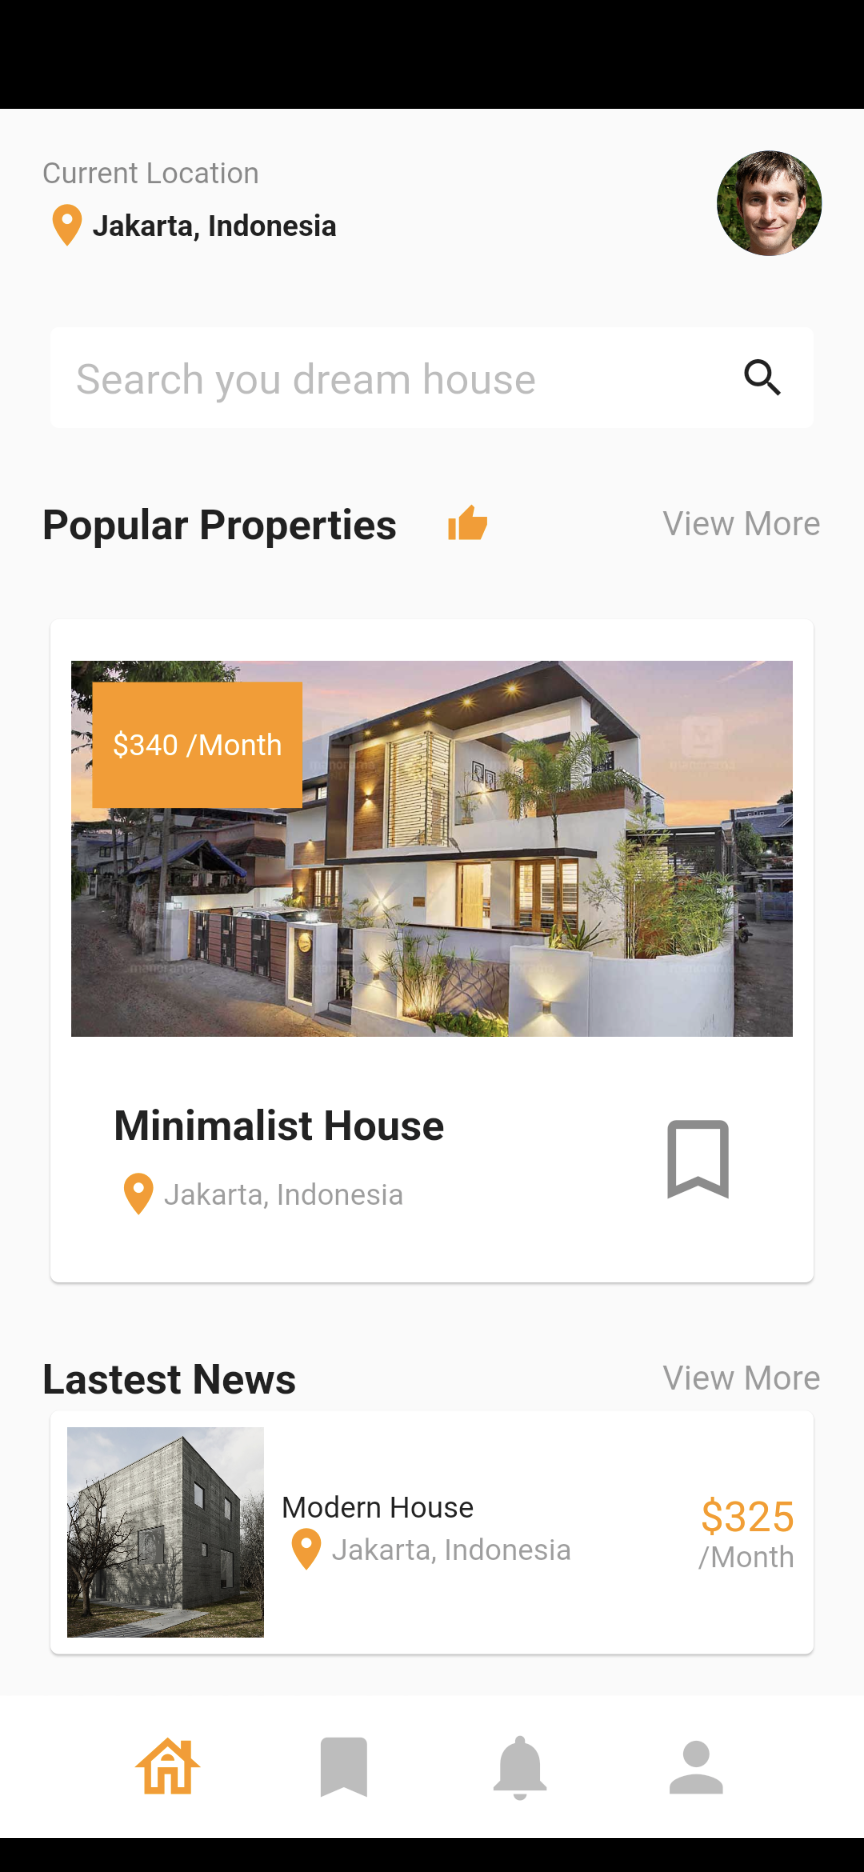
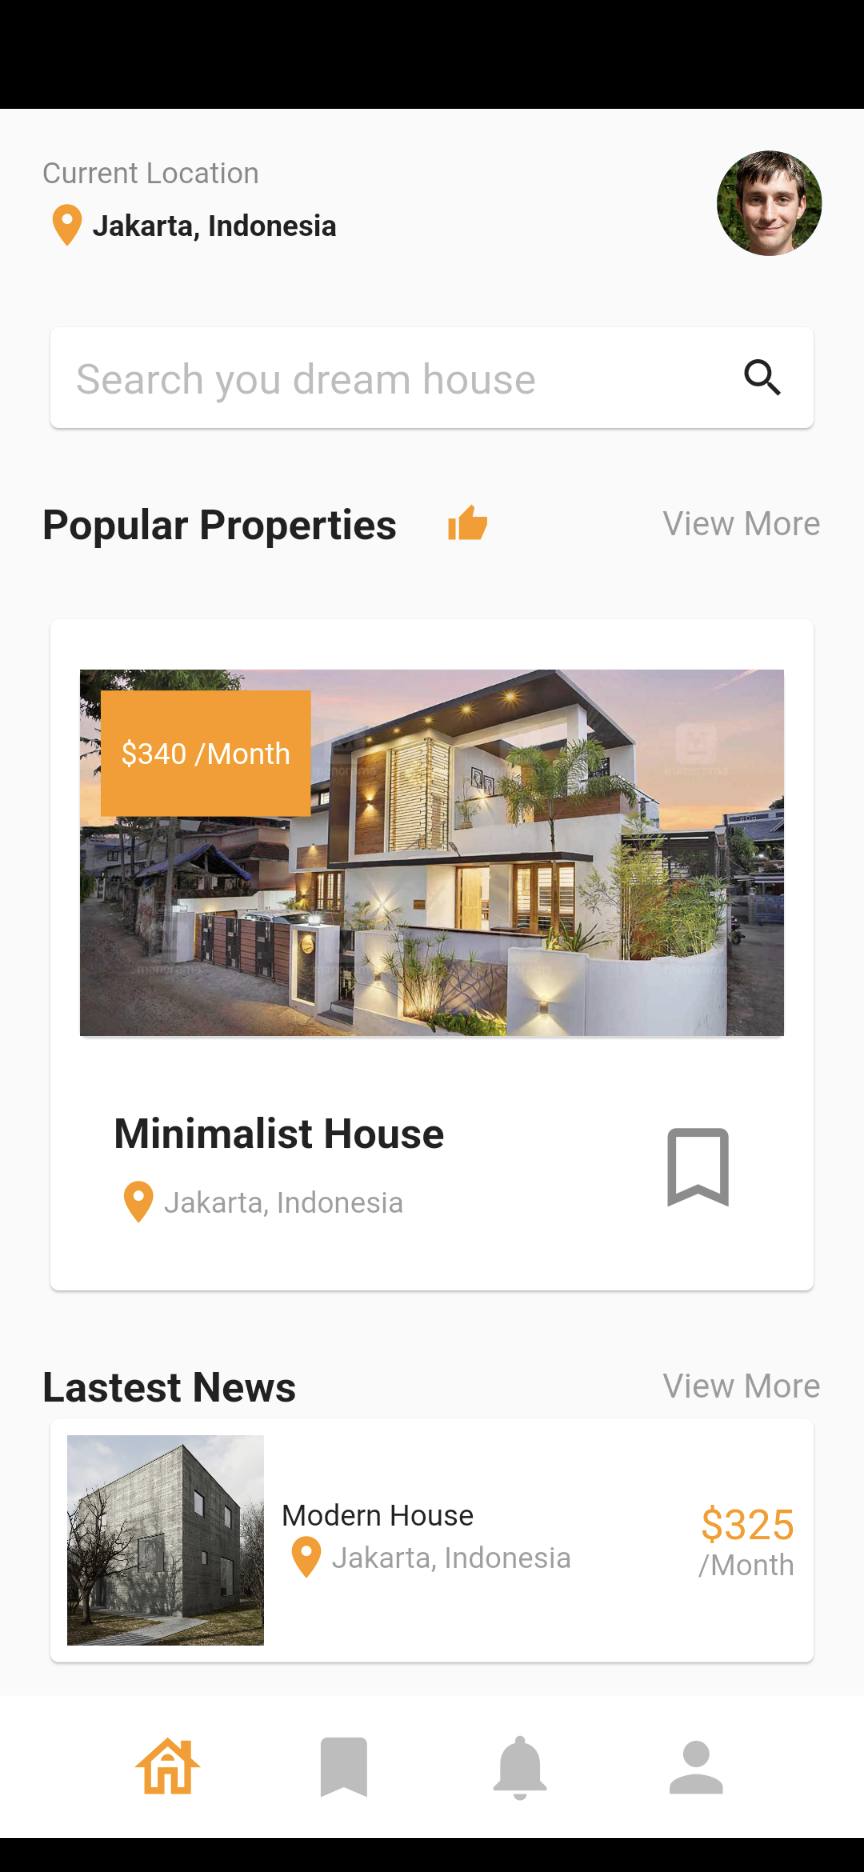
Update

diff --git a/lib/Widgets/main_card.dart b/lib/Widgets/main_card.dart
@@ -8,7 +8,6 @@ class MainCard extends StatelessWidget {
   @override
   Widget build(BuildContext context) {
     return Card(
-      elevation: 0,
       child: Padding(
         padding: const EdgeInsets.only(bottom: 30, top: 20),
         child: Column(
@@ -82,26 +81,28 @@ class ImagePrice extends StatelessWidget {
   Widget build(BuildContext context) {
     return Container(
       margin: const EdgeInsets.symmetric(horizontal: 10),
-      child: Stack(
-        children: [
-          const Image(
-            image: AssetImage('assets/house.jpg'),
-          ),
-          Container(
-            margin: const EdgeInsets.only(left: 10, top: 10),
-            alignment: Alignment.center,
-            height: 60,
-            width: 100,
-            color: Colors.orange,
-            child: const Center(
-              child: Text(
-                "\$340 /Month",
-                textAlign: TextAlign.center,
-                style: TextStyle(color: Colors.white),
-              ),
+      child: Card(
+        child: Stack(
+          children: [
+            const Image(
+              image: AssetImage('assets/house.jpg'),
             ),
-          )
-        ],
+            Container(
+              margin: const EdgeInsets.only(left: 10, top: 10),
+              alignment: Alignment.center,
+              height: 60,
+              width: 100,
+              color: Colors.orange,
+              child: const Center(
+                child: Text(
+                  "\$340 /Month",
+                  textAlign: TextAlign.center,
+                  style: TextStyle(color: Colors.white),
+                ),
+              ),
+            )
+          ],
+        ),
       ),
     );
   }

diff --git a/lib/Widgets/search_bar.dart b/lib/Widgets/search_bar.dart
@@ -10,15 +10,20 @@ class SearchBar extends StatelessWidget {
     return SizedBox(
       // color: Colors.red,
       width: double.infinity,
-      child: Row(
-        mainAxisAlignment: MainAxisAlignment.spaceBetween,
-        children: const [
-          Text(
-            'Search you dream house',
-            style: TextStyle(color: Colors.black26, fontSize: 20),
+      child: Card(
+        child: Padding(
+          padding: const EdgeInsets.all(12.0),
+          child: Row(
+            mainAxisAlignment: MainAxisAlignment.spaceBetween,
+            children: const [
+              Text(
+                'Search you dream house',
+                style: TextStyle(color: Colors.black26, fontSize: 20),
+              ),
+              Icon(Icons.search)
+            ],
           ),
-          Icon(Icons.search)
-        ],
+        ),
       ),
     );
   }

diff --git a/lib/Widgets/lastest_news.dart b/lib/Widgets/lastest_news.dart
@@ -31,7 +31,6 @@ class LastestNews extends StatelessWidget {
   @override
   Widget build(BuildContext context) {
     return Card(
-      elevation: 0,
       child: Padding(
         padding: const EdgeInsets.all(8.0),
         child: Row(
